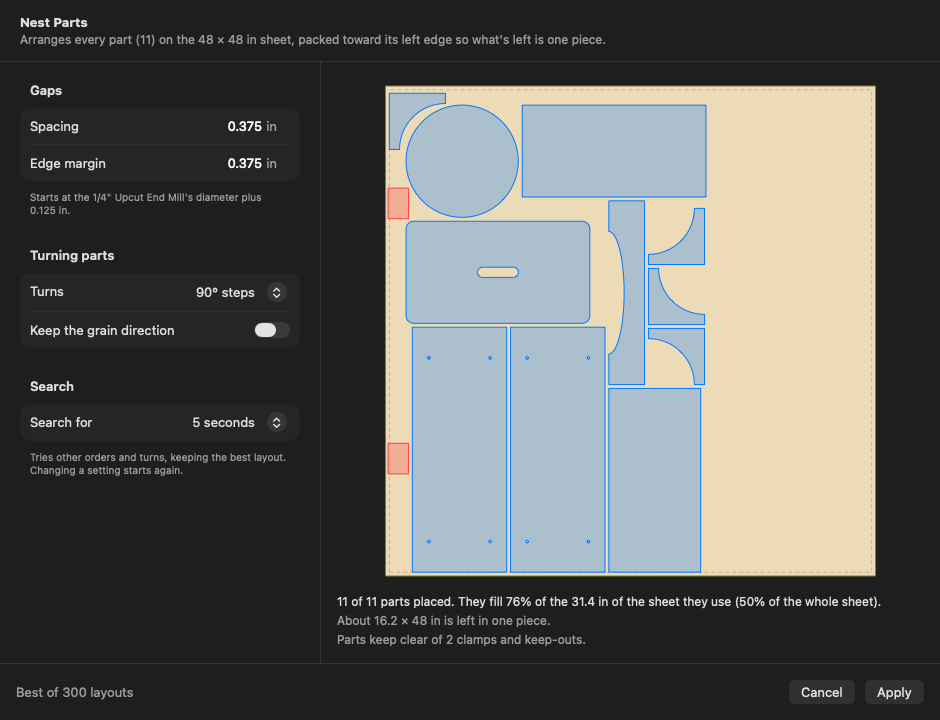
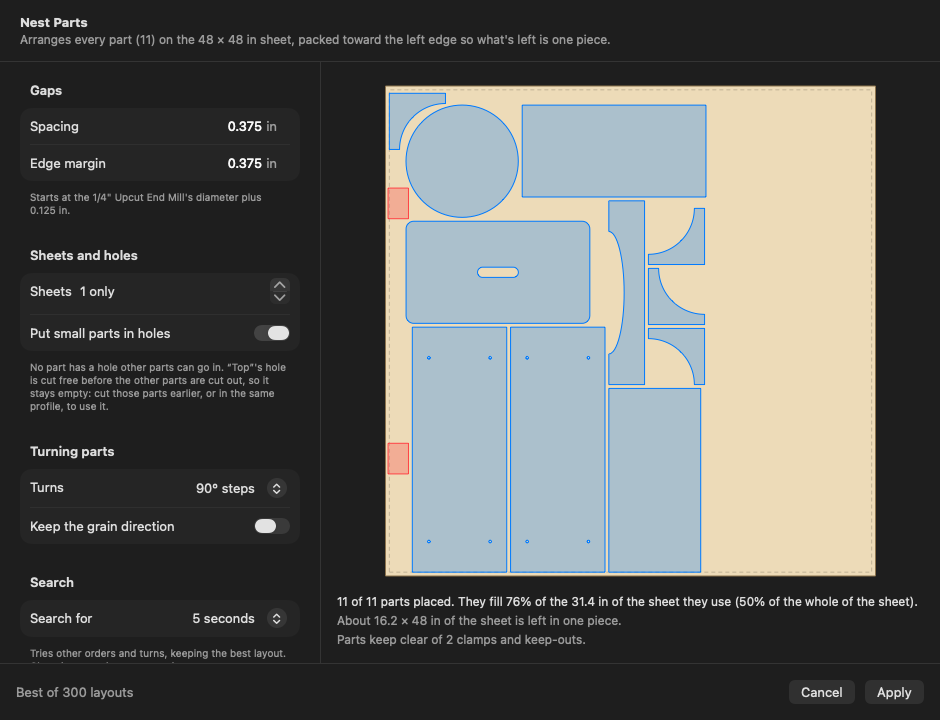
Holes note counts only holes that take parts; empty last sheets go on delete
The nest sheet names parts whose holes are cut free too early to take
anything, and fixes its subtitle. Deleting shapes drops a last sheet left
empty in the same undo step. Docs get the two-sheet nest sheet picture and
a refreshed one-sheet picture.

diff --git a/Sources/NativeCAM/NestPartsSheet.swift b/Sources/NativeCAM/NestPartsSheet.swift
@@ -282,7 +282,7 @@ struct NestPartsSheet: View {
         let size = "\(length(stock.width)) × \(length(stock.height)) \(units.symbol)"
         guard let job = session.job else { return "Arranges the parts on the \(size) sheet to use as little of it as it can." }
         let which = session.selection.isEmpty ? "every part" : "the selected \(job.parts.count == 1 ? "part" : "parts")"
-        let more = session.settings.sheetLimit > 1 ? ", then on more sheets," : ""
+        let more = session.settings.sheetLimit > 1 ? ", then on more sheets," : ","
         return "Arranges \(which) (\(job.parts.count)) on the \(size) sheet\(more) packed toward the \(alongX ? "left" : "bottom") edge so what's left is one piece."
     }
 
@@ -369,13 +369,17 @@ struct NestPartsSheet: View {
 
     private var holesNote: String {
         guard let job = session.job else { return "" }
-        let n = job.partsWithHoles
+        let n = job.partsWithHoles, closed = job.partsWithClosedHoles
         if !session.settings.partInPart { return "Parts stay out of other parts' holes." }
-        if n == 0 {
-            return "No part has a hole cut right through, from inside, before the parts that could go in it."
+        var note = n == 0 ? "No part has a hole other parts can go in."
+            : "\(n == 1 ? "1 part has a hole" : "\(n) parts have holes") other parts can go in: each is cut out before the hole "
+                + "it sits in, and keeps the spacing (or the hole's own cut) from its edge."
+        if let first = closed.first {
+            let who = closed.count == 1 ? "“\(first.name)”'s hole is" : "\(closed.count) parts' holes are"
+            note += " \(who) cut free before the other parts are cut out, so \(closed.count == 1 ? "it stays" : "they stay") empty: "
+                + "cut those parts earlier, or in the same profile, to use \(closed.count == 1 ? "it" : "them")."
         }
-        return "\(n == 1 ? "1 part has a hole" : "\(n) parts have holes") other parts can go in: each is cut out before the hole "
-            + "it sits in, and keeps the spacing (or the hole's own cut) from its edge."
+        return note
     }
 
     /// 0 keep as drawn, 4 quarter turns, -1 finer steps.

diff --git a/Sources/CAMCore/Model/NestParts.swift b/Sources/CAMCore/Model/NestParts.swift
@@ -180,8 +180,17 @@ public struct NestJob: Sendable {
         parts.map { Nesting.Part(outlines: $0.outlines, reach: $0.reach, holes: $0.holes, group: $0.group) }
     }
 
-    /// Parts with a hole another part could sit in.
-    public var partsWithHoles: Int { parts.count { !$0.holes.isEmpty } }
+    /// Parts with a hole another of the parts may sit in.
+    public var partsWithHoles: Int {
+        let groups = Set(parts.map(\.group))
+        return parts.count { $0.holes.contains { $0.accepts.map { !$0.isDisjoint(with: groups) } ?? true } }
+    }
+
+    /// Parts whose holes are all cut free before the parts that could go in them: their holes stay empty.
+    public var partsWithClosedHoles: [Part] {
+        let groups = Set(parts.map(\.group))
+        return parts.filter { !$0.holes.isEmpty && !$0.holes.contains { $0.accepts.map { !$0.isDisjoint(with: groups) } ?? true } }
+    }
 
     /// What the parts keep clear of: parts that stay put (open vectors as thin strips) on their sheets, and clamps and
     /// keep-outs on every sheet.

diff --git a/Sources/NativeCAM/SidebarView.swift b/Sources/NativeCAM/SidebarView.swift
@@ -182,8 +182,12 @@ struct SidebarView: View {
     }
 
     private func delete(shapes ids: Set<UUID>) {
-        project.shapes.removeAll { ids.contains($0.id) }
-        for i in project.operations.indices { project.operations[i].shapeIDs.removeAll { ids.contains($0) } }
+        var p = project
+        p.shapes.removeAll { ids.contains($0.id) }
+        for i in p.operations.indices { p.operations[i].shapeIDs.removeAll { ids.contains($0) } }
+        // A last sheet left with nothing on it goes too (in the same Undo step).
+        p.removeEmptySheets()
+        project = p
         workspace.selection = [.setup]
     }
 

diff --git a/Tests/CAMCoreTests/NestingSheetsTests.swift b/Tests/CAMCoreTests/NestingSheetsTests.swift
@@ -408,6 +408,8 @@ struct NestSheetsJobTests {
         #expect(frames.count == 2 && frames.allSatisfy { $0.holes.count == 1 && $0.holes[0].accepts?.isEmpty == false })
         let top = try #require(job.parts.first { $0.name == "Top" })
         #expect(top.holes.allSatisfy { $0.accepts?.isEmpty == true })
+        #expect(job.partsWithHoles == 2)
+        #expect(job.partsWithClosedHoles.map(\.name) == ["Top"])
         var s = job.defaultSettings
         s.maxSheets = 3
         s.maxEvaluations = 20

diff --git a/Sources/NativeCAM/CanvasController.swift b/Sources/NativeCAM/CanvasController.swift
@@ -201,6 +201,8 @@ final class CanvasController: ViewportInteractionDelegate {
         var proj = p
         proj.shapes.removeAll { ids.contains($0.id) }
         for i in proj.operations.indices { proj.operations[i].shapeIDs.removeAll { ids.contains($0) } }
+        // A last sheet left with nothing on it goes too (in the same Undo step).
+        proj.removeEmptySheets()
         project.wrappedValue = proj
         workspace.selection = []
     }

diff --git a/docs/using-nativecam.md b/docs/using-nativecam.md
@@ -234,13 +234,15 @@ When the material is longer or wider than the machine reaches, NativeCAM cuts it
 3. **Check the layout.** The preview shows every sheet the layout uses, side by side, with the parts in holes a shade darker. Below it: how many parts fit, on how many sheets and how many in holes, how much of the strip of the last sheet they use they fill, and how big a piece of the last sheet is left.
 4. **Apply.** The parts move to the layout shown, every shape in a part together, onto their sheets, and their toolpaths follow and are worked out again. **⌘Z** puts them all back.
 
-<p align="center"><img src="images/nest-parts-sheet.png" width="720" alt="The Nest Parts sheet: spacing, edge margin, turns and search time on the left, the demo shelf's parts nested on the sheet on the right, with how much of the sheet they use"></p>
+<p align="center"><img src="images/nest-parts-sheet.png" width="720" alt="The Nest Parts sheet: spacing, edge margin, sheets and holes, turns and search time on the left, the demo shelf's parts nested on the sheet on the right, with how much of the sheet they use"></p>
 
 **What parts keep clear of.** Parts that aren't nested stay where they are, and the nested ones keep the spacing from them, from clamps and keep-outs and from the sheet's edges. A part whose toolpaths cut further outside it than the spacing (a 3D roughing set to clear past its vectors, say) keeps that far from everything else; the sheet says which. Lead-ins don't count: near another part a profile's lead-ins are shortened or left off, as they always are, and **Checks** lists any left off. The sheet notes when lead-ins are longer than the spacing allows, so you can widen it.
 
 **Parts that don't fit** are listed: there was no room on the sheets allowed, or a part is too big for a sheet. Each stays where it is, unless a nested part now takes its place, when it goes beside its sheet, past its right edge (its toolpaths are then off the material: nest again with more sheets, or turn them off).
 
 ### More than one sheet
+
+<p align="center"><img src="images/nest-sheets.png" width="720" alt="The Nest Parts sheet with the frames and coasters demo nested on two 24 by 48 inch sheets: brackets and coasters sit in the two frames' windows, and the summary says 19 of 19 parts are placed on 2 sheets, 7 in other parts' holes"></p>
 
 A job nested onto several sheets keeps them all in one project: the toolpaths are shared, and each sheet cuts the parts on it. The canvas shows one sheet at a time, its size and its parts. **Sheet 1 of 2** at the right of the bar below the canvas, with the arrows either side, shows another; picking a shape on another sheet in the sidebar shows that one. Shapes you draw, import or paste go on the sheet shown. Clamps and keep-outs are on every sheet: each sheet is clamped the same way.
 
